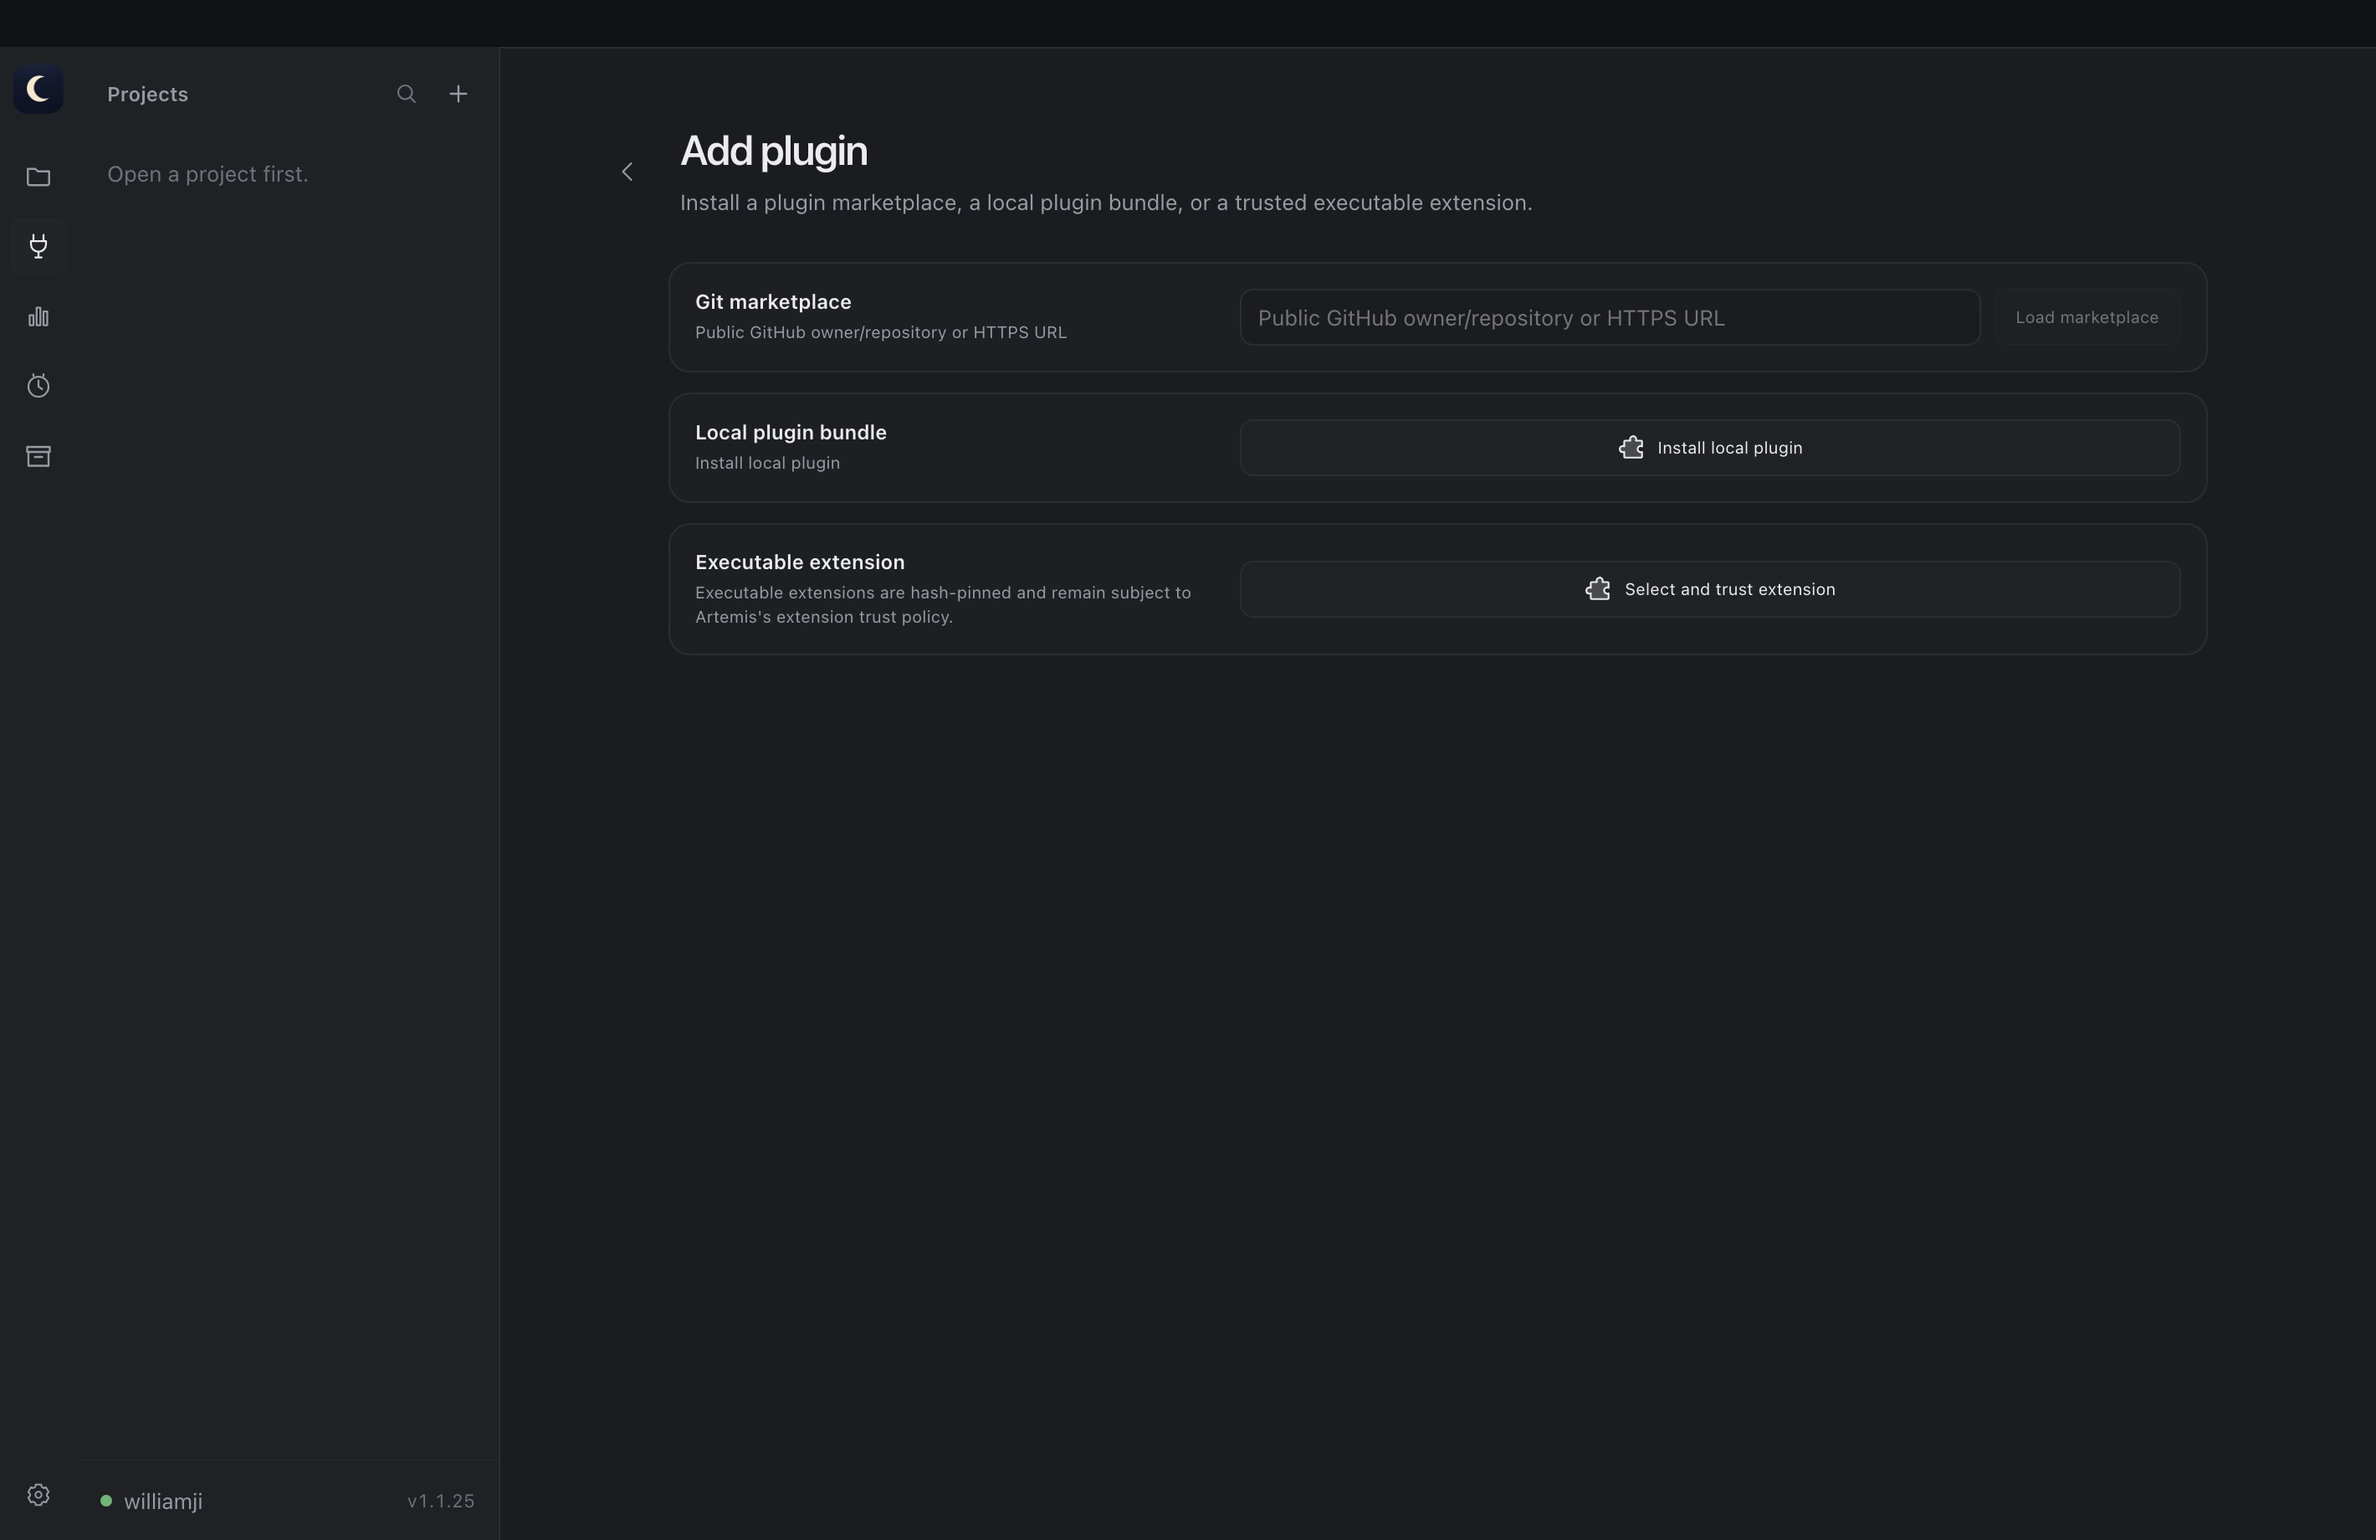
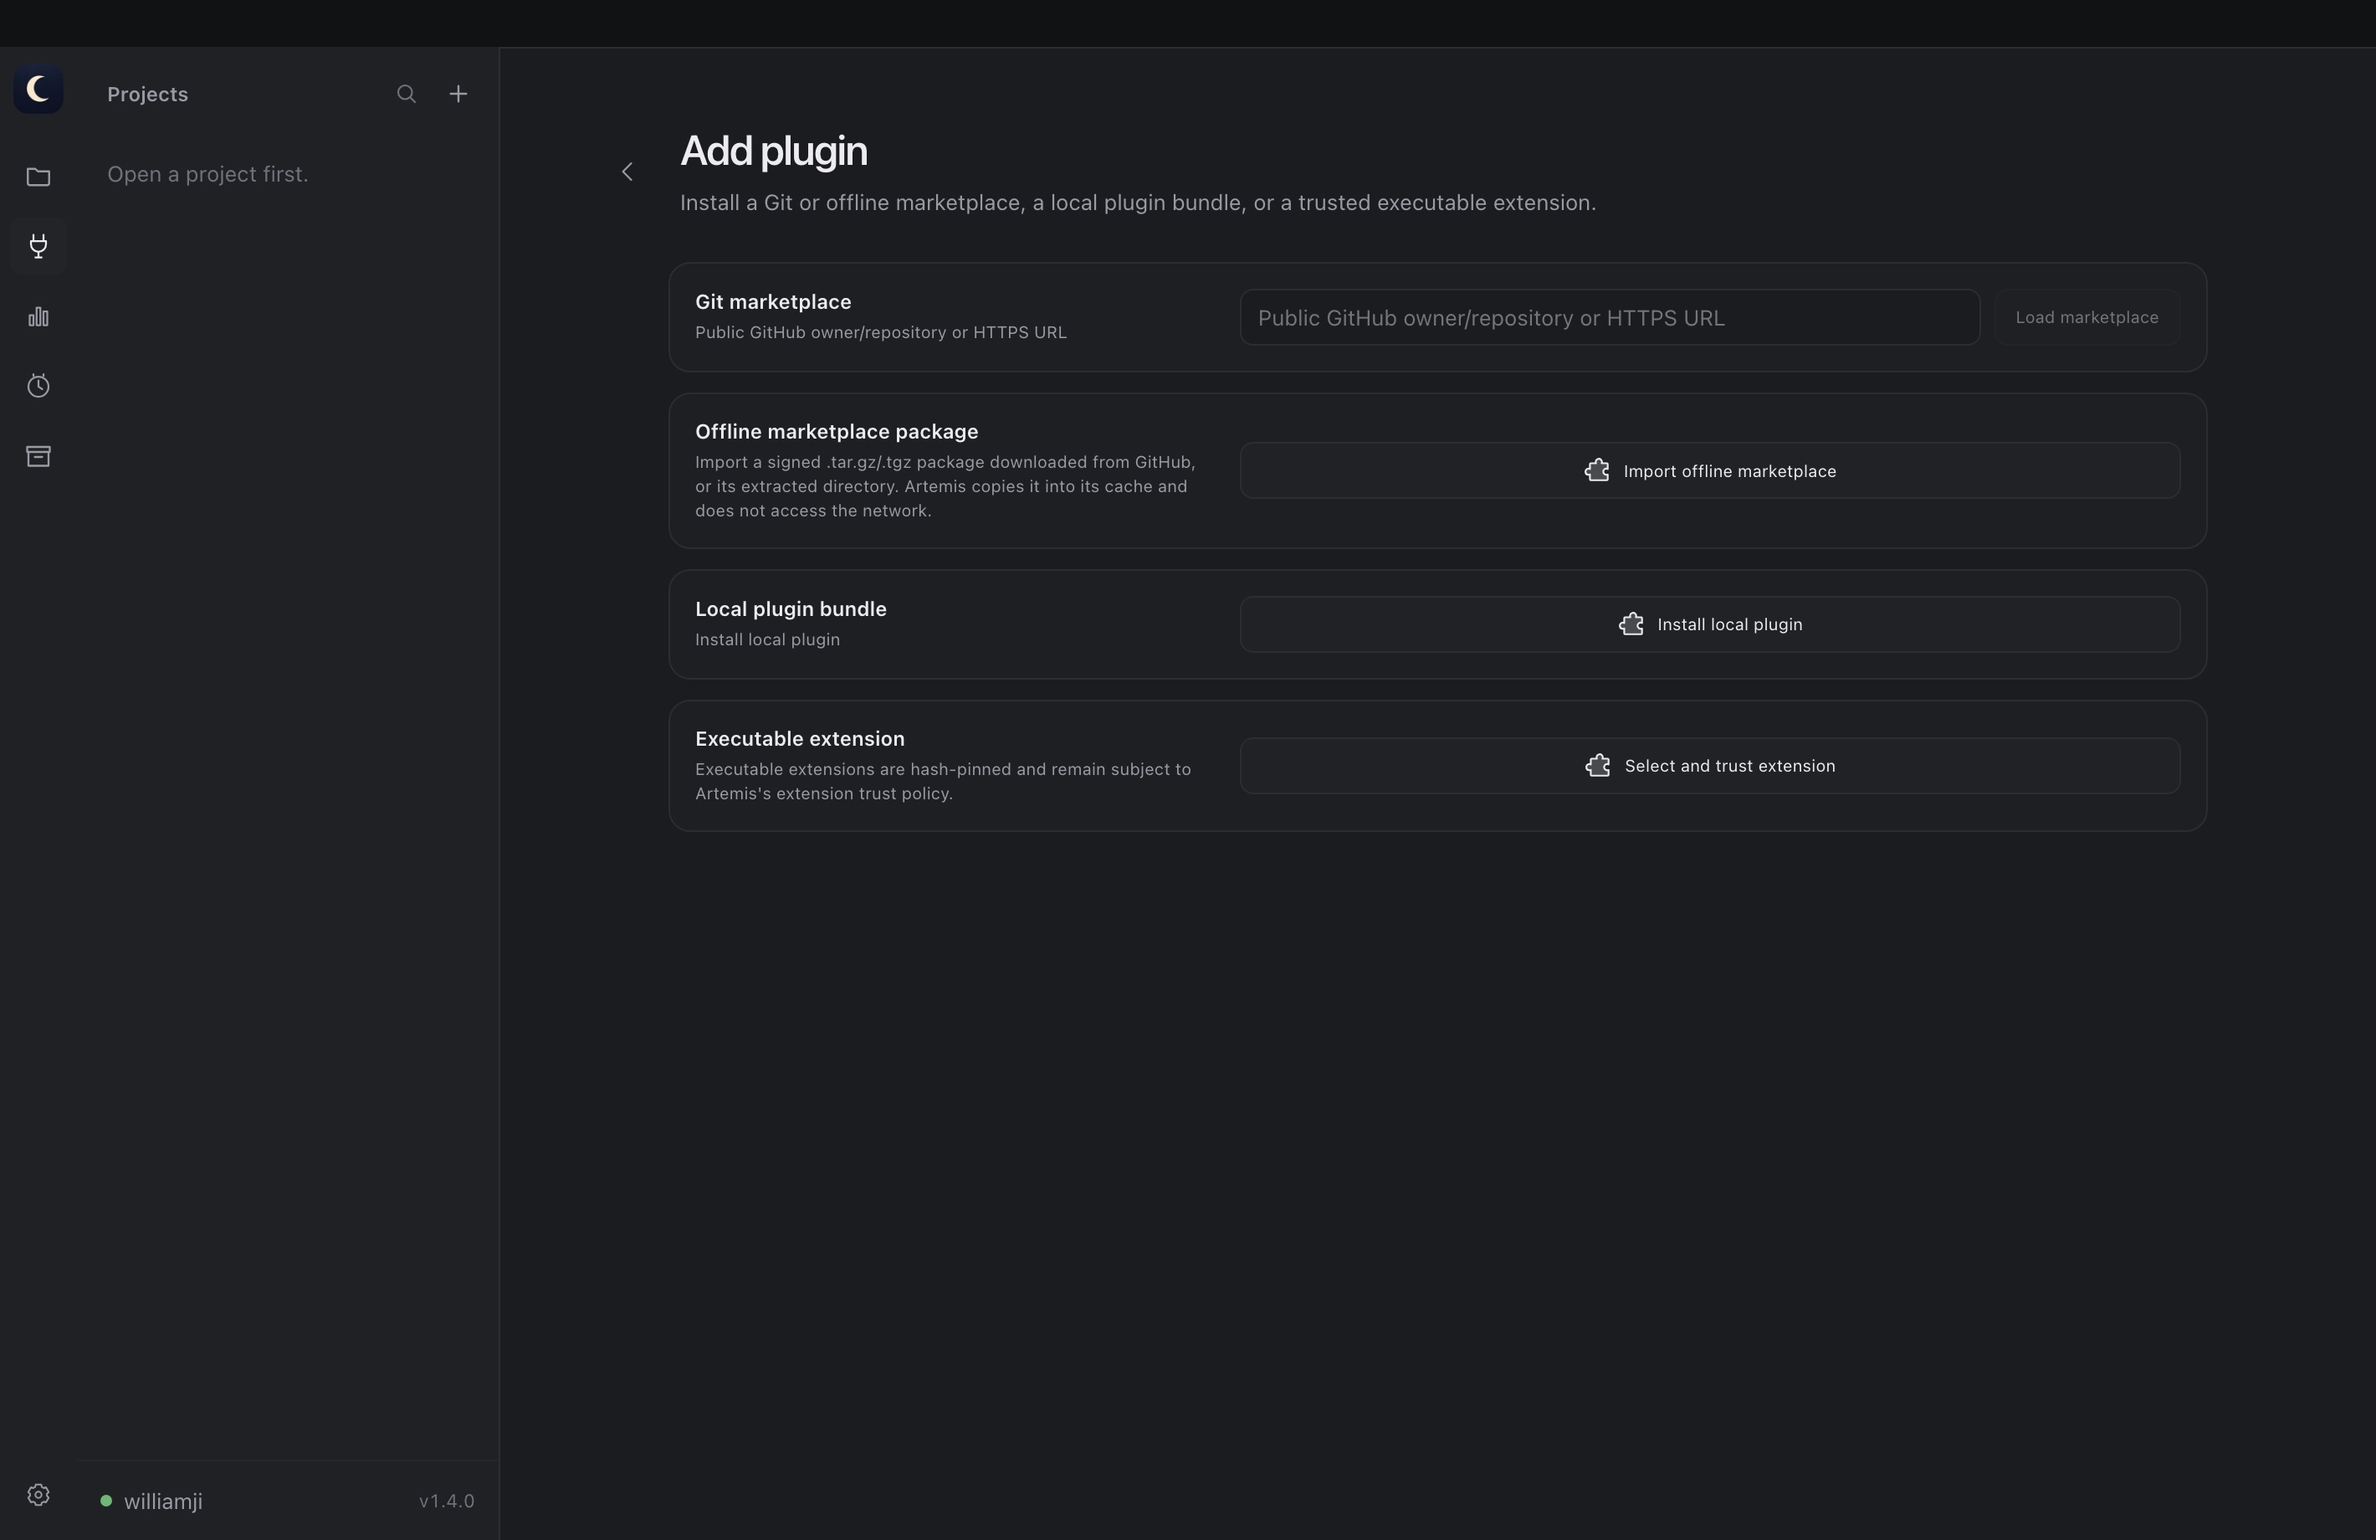
Refresh README interface screenshots

diff --git a/README.md b/README.md
@@ -173,11 +173,11 @@ enablement and removal visible to the user.
 
 <table>
   <tr>
-    <td width="50%"><img src="docs/images/plugin-marketplace-add-plugin.jpg" alt="Artemis add plugin page with Git marketplace, local bundle and executable extension options" /></td>
+    <td width="50%"><img src="docs/images/plugin-marketplace-add-plugin.jpg" alt="Artemis add plugin page with Git and offline marketplaces, local bundle and executable extension options" /></td>
     <td width="50%"><img src="docs/images/plugin-marketplace-add-mcp.jpg" alt="Artemis dedicated MCP server editor" /></td>
   </tr>
   <tr>
-    <td align="center"><sub>Add a Git marketplace, local plugin bundle or trusted executable extension</sub></td>
+    <td align="center"><sub>Add a Git or offline marketplace, local plugin bundle or trusted executable extension</sub></td>
     <td align="center"><sub>Configure a local MCP server in a dedicated structured editor</sub></td>
   </tr>
 </table>
